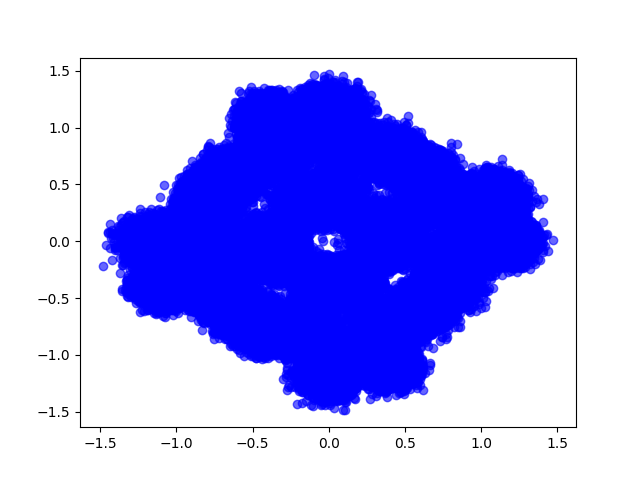
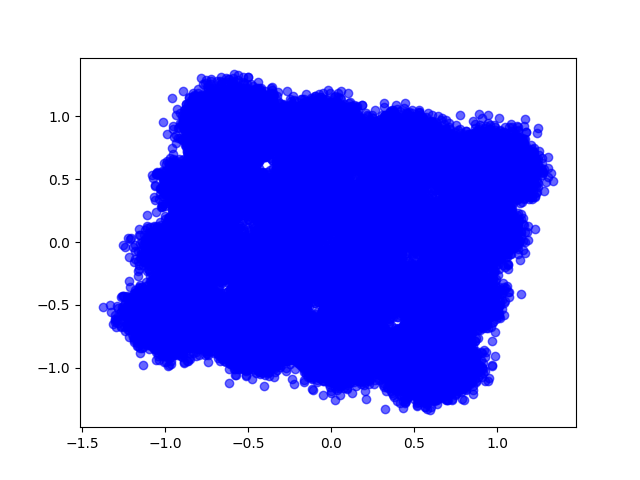
fixed error in save_plot and also added save_plots to cfo_test

diff --git a/DSP/cfo_test.py b/DSP/cfo_test.py
@@ -6,7 +6,7 @@ import cma_utils
 
 N_SYMBOLS = 100000
 fs = 2e9
-freq_offset = 5e6
+freq_offset = 2e3
 
 def main():
 
@@ -18,7 +18,7 @@ def main():
     # symbols_with_cfo = cma_utils.apply_cfo_both_polarisations(initial_symbols,freq_offset,fs)
     # symbols_with_cfo_and_pmd=cma_utils.apply_pmd(symbols_with_cfo)
 
-    cma_utils.plot_constellation(initial_symbols)
+    cma_utils.save_constellation(initial_symbols,"intial_symbols")
 
     #Uncommment bottom two lines for pms then cfo
     symbols_with_pmd = cma_utils.apply_pmd( 
@@ -28,7 +28,8 @@ def main():
     L_m=10000, # fiber length
     N_sections=20, # number of fiber sections 
     Rs=32e9, # 32 gbaud
-    SpS=2 # samples per symbol 
+    SpS=4, # samples per symbol
+    seed=42
     )
     
     
@@ -41,21 +42,24 @@ def main():
     #cma_utils.plot_constellation(symbols_with_cfo_and_pmd)
 
     #Uncomment this for doing pmd first then cfo
-    symbols_with_pmd_corrrected,converged_filters =  cma_utils.cma_python(symbols_with_cfo_and_pmd,num_taps=51,mu_CMA=1e-4)
+    # symbols_with_pmd_corrrected,converged_filters =  cma_utils.cma_python(symbols_with_cfo_and_pmd,num_taps=51,mu_CMA=1e-4)
 
-    cma_utils.plot_constellation(symbols_with_pmd_corrrected)
+    # #symbols_with_pmd_corrected_mcma = cma_utils.mcma_python(symbols_with_cfo_and_pmd,num_taps=51,mu_CMA=1e-4)
 
-    symbols_with_both_corrected = cma_utils.cfo_correction_both_pol(symbols_with_pmd_corrrected,fs)
+    # cma_utils.save_constellation(symbols_with_pmd_corrrected,"pmd_corrected")
 
-    cma_utils.plot_constellation(symbols_with_both_corrected)
+    # symbols_with_both_corrected = cma_utils.cfo_correction_both_pol(symbols_with_pmd_corrrected,fs)
+
+    # cma_utils.save_constellation(symbols_with_both_corrected, "both_corrected")
     
-    
-    # symbols_with_cfo_correction=cma_utils.cfo_correction_both_pol(symbols_with_cfo_and_pmd,fs)
-    # cma_utils.plot_constellation(symbols_with_cfo_correction)
+    ##Uncomment this for doing cfo first then pmd
 
-    # symbols_with_pmd_correction,converged_filters = cma_utils.mcma_python(symbols_with_cfo_correction,num_taps=51,mu_CMA=1e-4)
+    symbols_with_cfo_correction=cma_utils.cfo_correction_both_pol(symbols_with_cfo_and_pmd,fs)
+    cma_utils.plot_constellation(symbols_with_cfo_correction)
 
-    # cma_utils.plot_constellation(symbols_with_pmd_correction)
+    symbols_with_pmd_correction,converged_filters = cma_utils.cma_python(symbols_with_cfo_correction,num_taps=51,mu_CMA=1e-4)
+
+    cma_utils.plot_constellation(symbols_with_pmd_correction)
 
 
 main()

diff --git a/DSP/cma_utils.py b/DSP/cma_utils.py
@@ -36,7 +36,7 @@ def gen_I_Q_16_qam(N_symbols):
 
     return E_in
 
-def apply_pmd(E_in, DGD_ps_per_sqrt_km=1.0, L_m=10000, N_sections=20, Rs=32e9, SpS=2):
+def apply_pmd(E_in, DGD_ps_per_sqrt_km=1.0, L_m=10000, N_sections=20, Rs=32e9, SpS=2 , seed = 0):
     """This function does pmd between the x and y polarisation and 
     returns back the x and y polarisation after pmd
     
@@ -58,7 +58,11 @@ def apply_pmd(E_in, DGD_ps_per_sqrt_km=1.0, L_m=10000, N_sections=20, Rs=32e9, S
     E_V = np.fft.fft(E_in[:, 0])
     E_H = np.fft.fft(E_in[:, 1])
 
-    np.random.seed(42)
+    if seed:
+        np.random.seed(42)
+    else:
+        pass
+
     for _ in range(N_sections):
         # Random complex coupling matrices (unitary)
         X = np.random.randn(2, 2) + 1j * np.random.randn(2, 2)
@@ -105,6 +109,7 @@ def save_constellation(E , save_path_prefix=""):
     else:
         plt.savefig("x_pol.png")
     
+    plt.clf()
     
     plt.scatter(E[:,1].real, E[:,1].imag, color='blue', label='Input X-pol', alpha=0.6)
     
@@ -113,6 +118,7 @@ def save_constellation(E , save_path_prefix=""):
     else:
         plt.savefig("y_pol.png")
 
+    plt.close("all")
     return
 # def cma_matlab_engine(E_in, num_taps, learning_rate,matlab_function_path):
 #     import matlab.engine

diff --git a/DSP/cma_algo_testing.py b/DSP/cma_algo_testing.py
@@ -58,7 +58,7 @@ def main():
     E_after_pmd = cma_utils.apply_pmd( 
     E_in=initial_symbols, 
     # DGD_ps_per_sqrt_km=31.6, # typical mean DGD 
-    DGD_ps_per_sqrt_km=19.764,
+    DGD_ps_per_sqrt_km=31.6,
     L_m=10000, # fiber length
     N_sections=20, # number of fiber sections 
     Rs=32e9, # 32 gbaud
